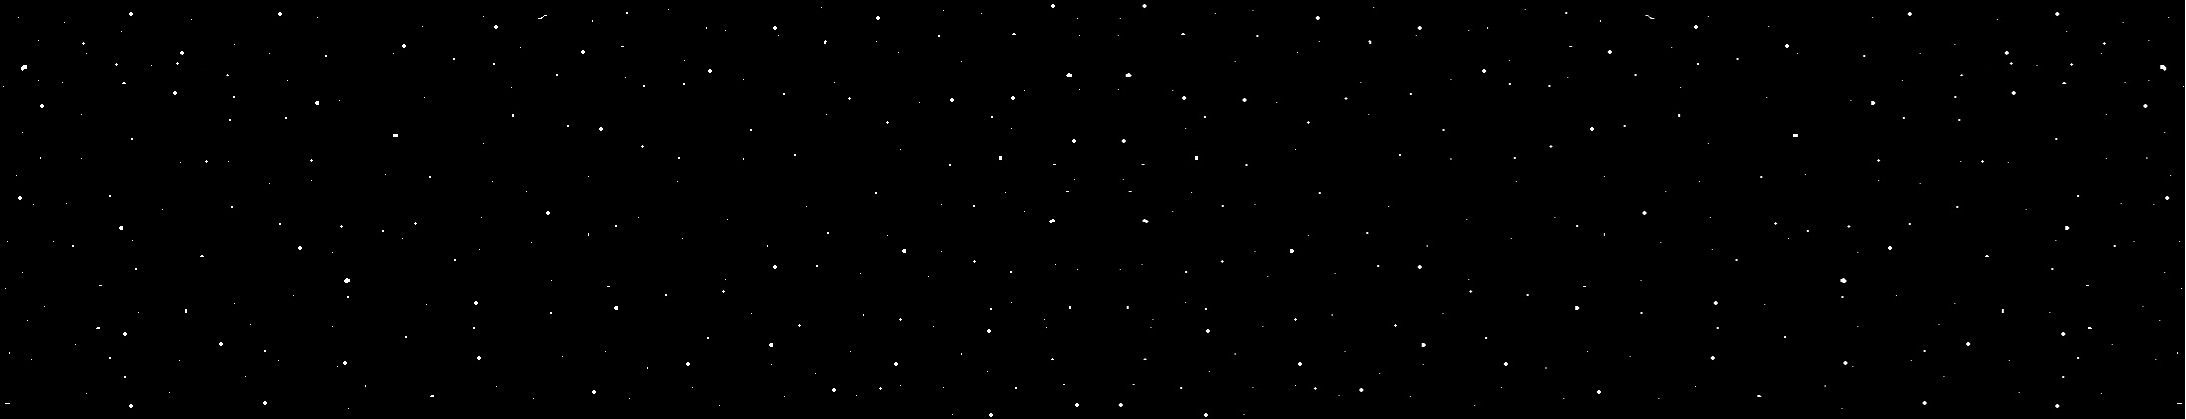
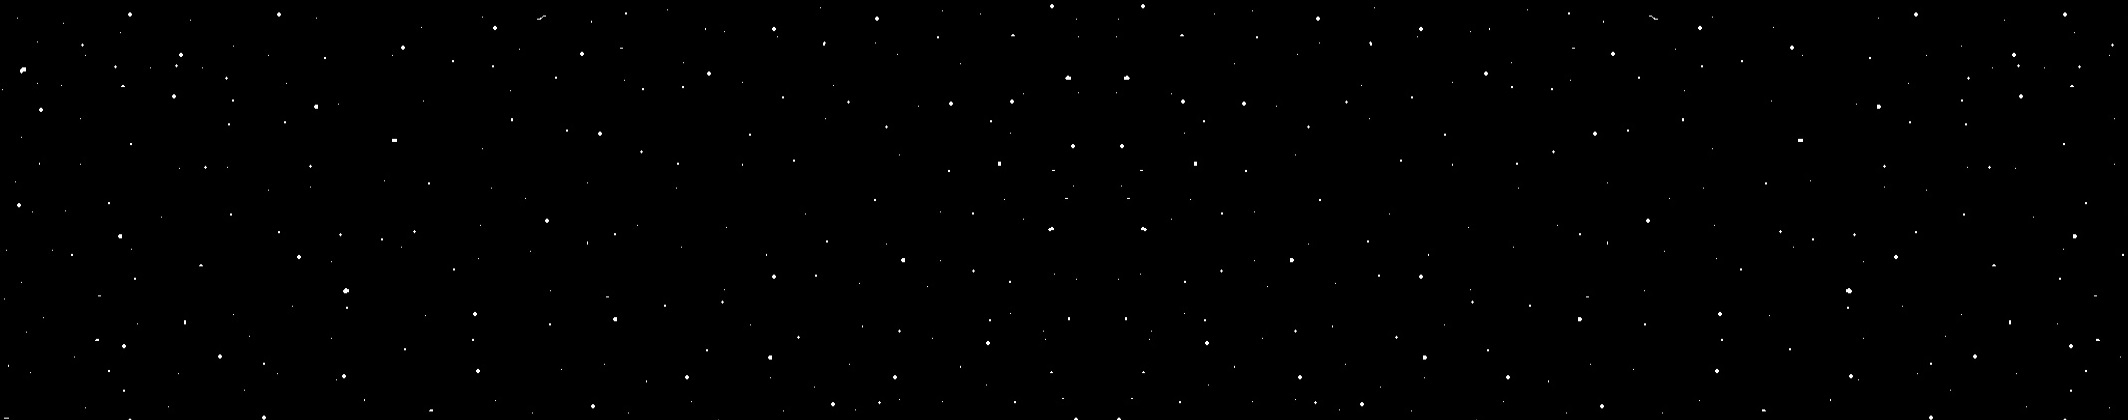
add % functionality and change background img

Changed region(s): [[0.4962, 0.9928, 0.5273, 1.0]]

diff --git a/src/main.ts b/src/main.ts
@@ -1,11 +1,17 @@
 import "./style.scss";
 
-// window.onload = function () {
-//   document.getElementById("input")?.focus();
-// };
+//----------------after page loads the focus goes to display input
+window.onload = () => {
+  document.getElementById("input")?.focus();
+};
+
+//------------------NodeLists-------------------------------------------------------
+
 const numbers = document.querySelectorAll<HTMLButtonElement>(".button__number");
 const operators =
   document.querySelectorAll<HTMLButtonElement>(".button__operator");
+
+//----------------------elements selected-------------------------------------
 
 const display = document.querySelector<HTMLInputElement>(".display__text");
 const clear = document.querySelector<HTMLButtonElement>(".button__clear");
@@ -18,6 +24,9 @@ const divide = document.querySelector<HTMLButtonElement>(".button__divide");
 const times = document.querySelector<HTMLButtonElement>(".button__times");
 const equals = document.querySelector<HTMLButtonElement>(".button__equals");
 const decimal = document.querySelector<HTMLButtonElement>(".button__decimal");
+const percent = document.querySelector<HTMLButtonElement>(".button__percent");
+
+//-------------------------handles null values for selected elements--------------------------
 
 if (
   numbers.length === 0 ||
@@ -31,15 +40,17 @@ if (
   !divide ||
   !times ||
   !equals ||
-  !decimal
+  !decimal ||
+  !percent
 ) {
   throw new Error("Issues with Selector");
 }
+
+//---------------------operators variables-----------------------------------
+
 let result: number = 0;
 let numberOne: number = 0;
-let numberTwo: number = 0;
 let decimalUsed: boolean = false;
-let numberOneUsed: boolean = false;
 let minusPressed: boolean = false;
 let timesPressed: boolean = false;
 let dividePressed: boolean = false;
@@ -49,14 +60,12 @@ let plusPressed: boolean = false;
 
 const handleClickNumbers = (event: Event) => {
   const target = event.currentTarget as HTMLElement;
-
   display.value += target.innerText;
 };
 //-------------------clear display----------------------------
 const handleClickClear = () => {
   display.value = "";
-  location.reload()
-
+  location.reload();
 };
 const handleClickClearEntry = () => {
   display.value = display.value.slice(0, -1);
@@ -71,14 +80,15 @@ const handleClickOperator = () => {
   decimal.className = "button button__number button__decimal";
 };
 
-
-//--------------------press decimal-------------------------------
+//---------------------------HANDLERS----------------------------------//
+//---------------------------HANDLERS-----------------------------------//
 
 const handleDecimal = (event: Event) => {
   const target = event.currentTarget as HTMLElement;
   decimalUsed = true;
   target.className = "button button__number button__decimal disable";
 };
+
 const handleMinus = () => {
   minusPressed = true;
 };
@@ -91,6 +101,11 @@ const handleDivide = () => {
 const handleTimes = () => {
   timesPressed = true;
 };
+const handlePercent = () => {
+  if (timesPressed) {
+    result = numberOne/100 * Number(display.value);
+    display.value = result.toString();
+}}
 
 const handleEquals = () => {
   if (minusPressed) {
@@ -109,16 +124,16 @@ const handleEquals = () => {
     result = numberOne * Number(display.value);
     display.value = result.toString();
   }
+ 
 };
 //-------------------event listeners--------------------------------
 minus.addEventListener("click", handleMinus);
 plus.addEventListener("click", handlePlus);
 divide.addEventListener("click", handleDivide);
 times.addEventListener("click", handleTimes);
-
 equals.addEventListener("click", handleEquals);
-
 decimal.addEventListener("click", handleDecimal);
+percent.addEventListener("click", handlePercent);
 
 numbers.forEach((button) => {
   button.addEventListener("click", handleClickNumbers);

diff --git a/src/style.scss b/src/style.scss
@@ -7,12 +7,13 @@ body {
 
 .calculator {
   position: absolute;
+  padding-left: 0.35rem;
   top: 50%;
   left: 50%;
   transform: translate(-50%, -50%);
   background-color: black;
   border: 3px solid rgb(138, 130, 17);
-  box-shadow: 0 0 100px #fff;
+  box-shadow: 0 0 50px #fff;
 }
 
 .buttons {
@@ -29,6 +30,8 @@ body {
 }
 
 .display {
+  padding-right: 1rem;
+  border: none;
   box-shadow: none;
   width: 300px;
   height: 90px;
@@ -36,13 +39,13 @@ body {
   background-color: black;
   &__text {
     outline: none;
-    max-width: 100%;
     background-color: black;
     height: 100%;
     width: 100%;
     font-weight: 400;
     padding: 0;
     margin: 0 auto;
+    border: none;
     color: white;
     font-size: 60px;
     caret-color: transparent;
@@ -54,7 +57,7 @@ body {
   font-family: "Segoe UI", Tahoma, Geneva, Verdana, sans-serif;
   width: 58px;
   height: 58px;
-  border-radius: 50%;
+  border-radius: 30px;
   border: none;
   background-color: rgb(57, 52, 52);
   font-size: 2rem;

diff --git a/index.html b/index.html
@@ -11,13 +11,13 @@
     <div class="rocket"></div>
     <div class="calculator">
       <div class="display">
-        <input class="display__text" id="input" maxlength="9"></input>
+        <input class="display__text" readonly id="input" maxlength="9" autocomplete="off"></input>
       </div>
       <div class="buttons">
         
         <button class="button button__grey button__clear">C</button>
         <button class="button button__grey button__clearEntry">CE</button>
-        <button class="button button__grey">%</button>
+        <button class="button button__grey button__percent">%</button>
         <button class="button button__orange button__divide button__operator">÷</button>
         <button class="button button__number ">7</button>
         <button class="button button__number">8</button>
